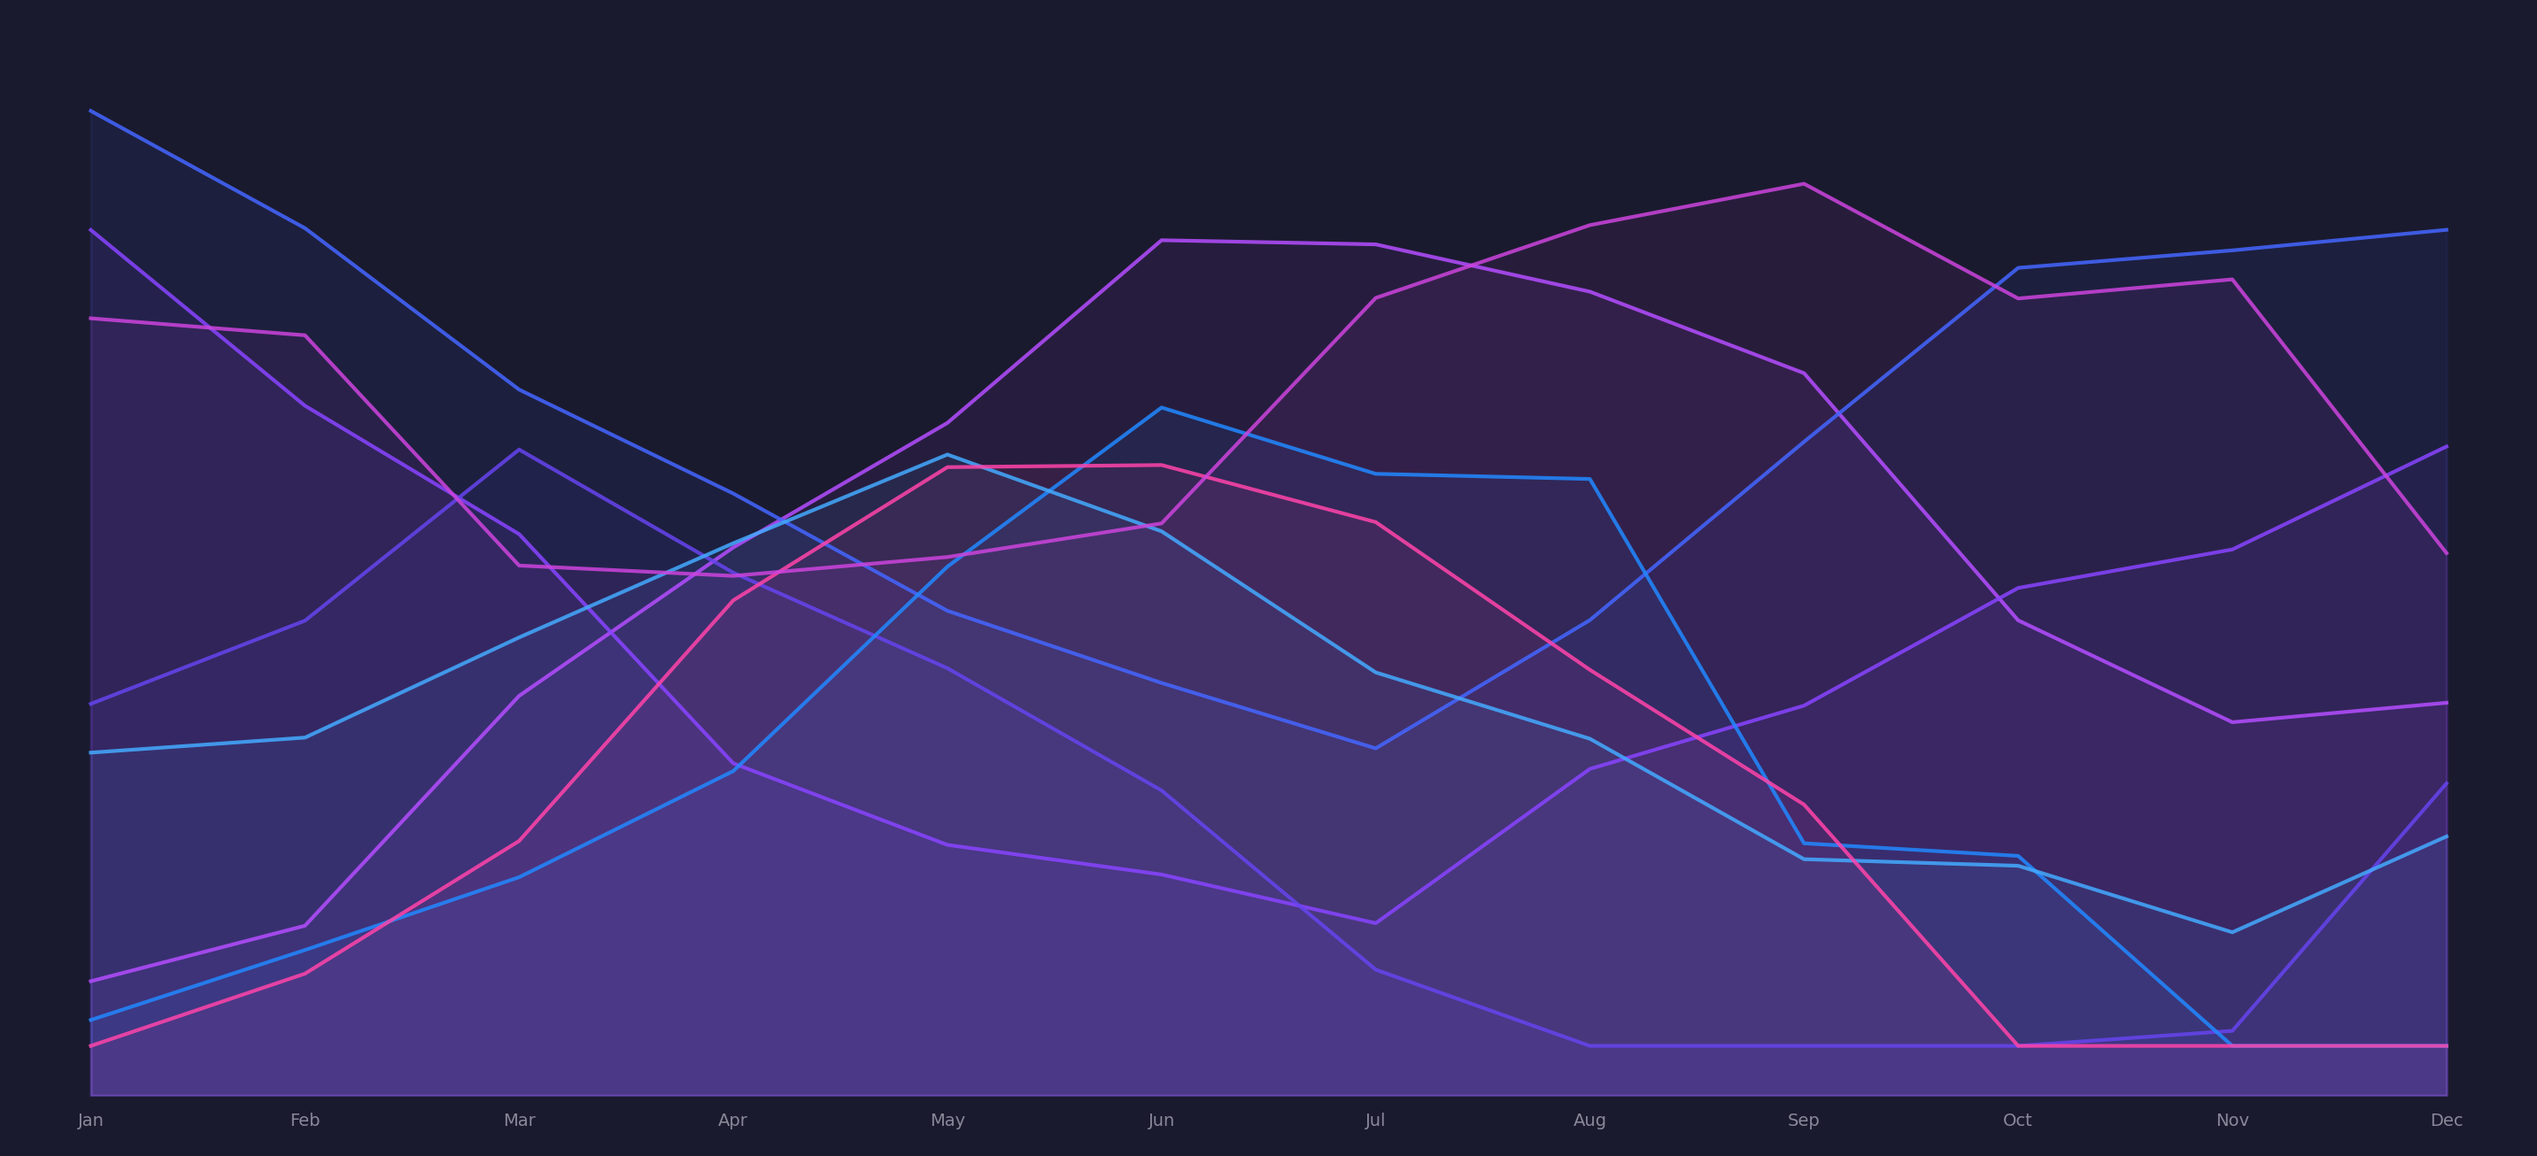
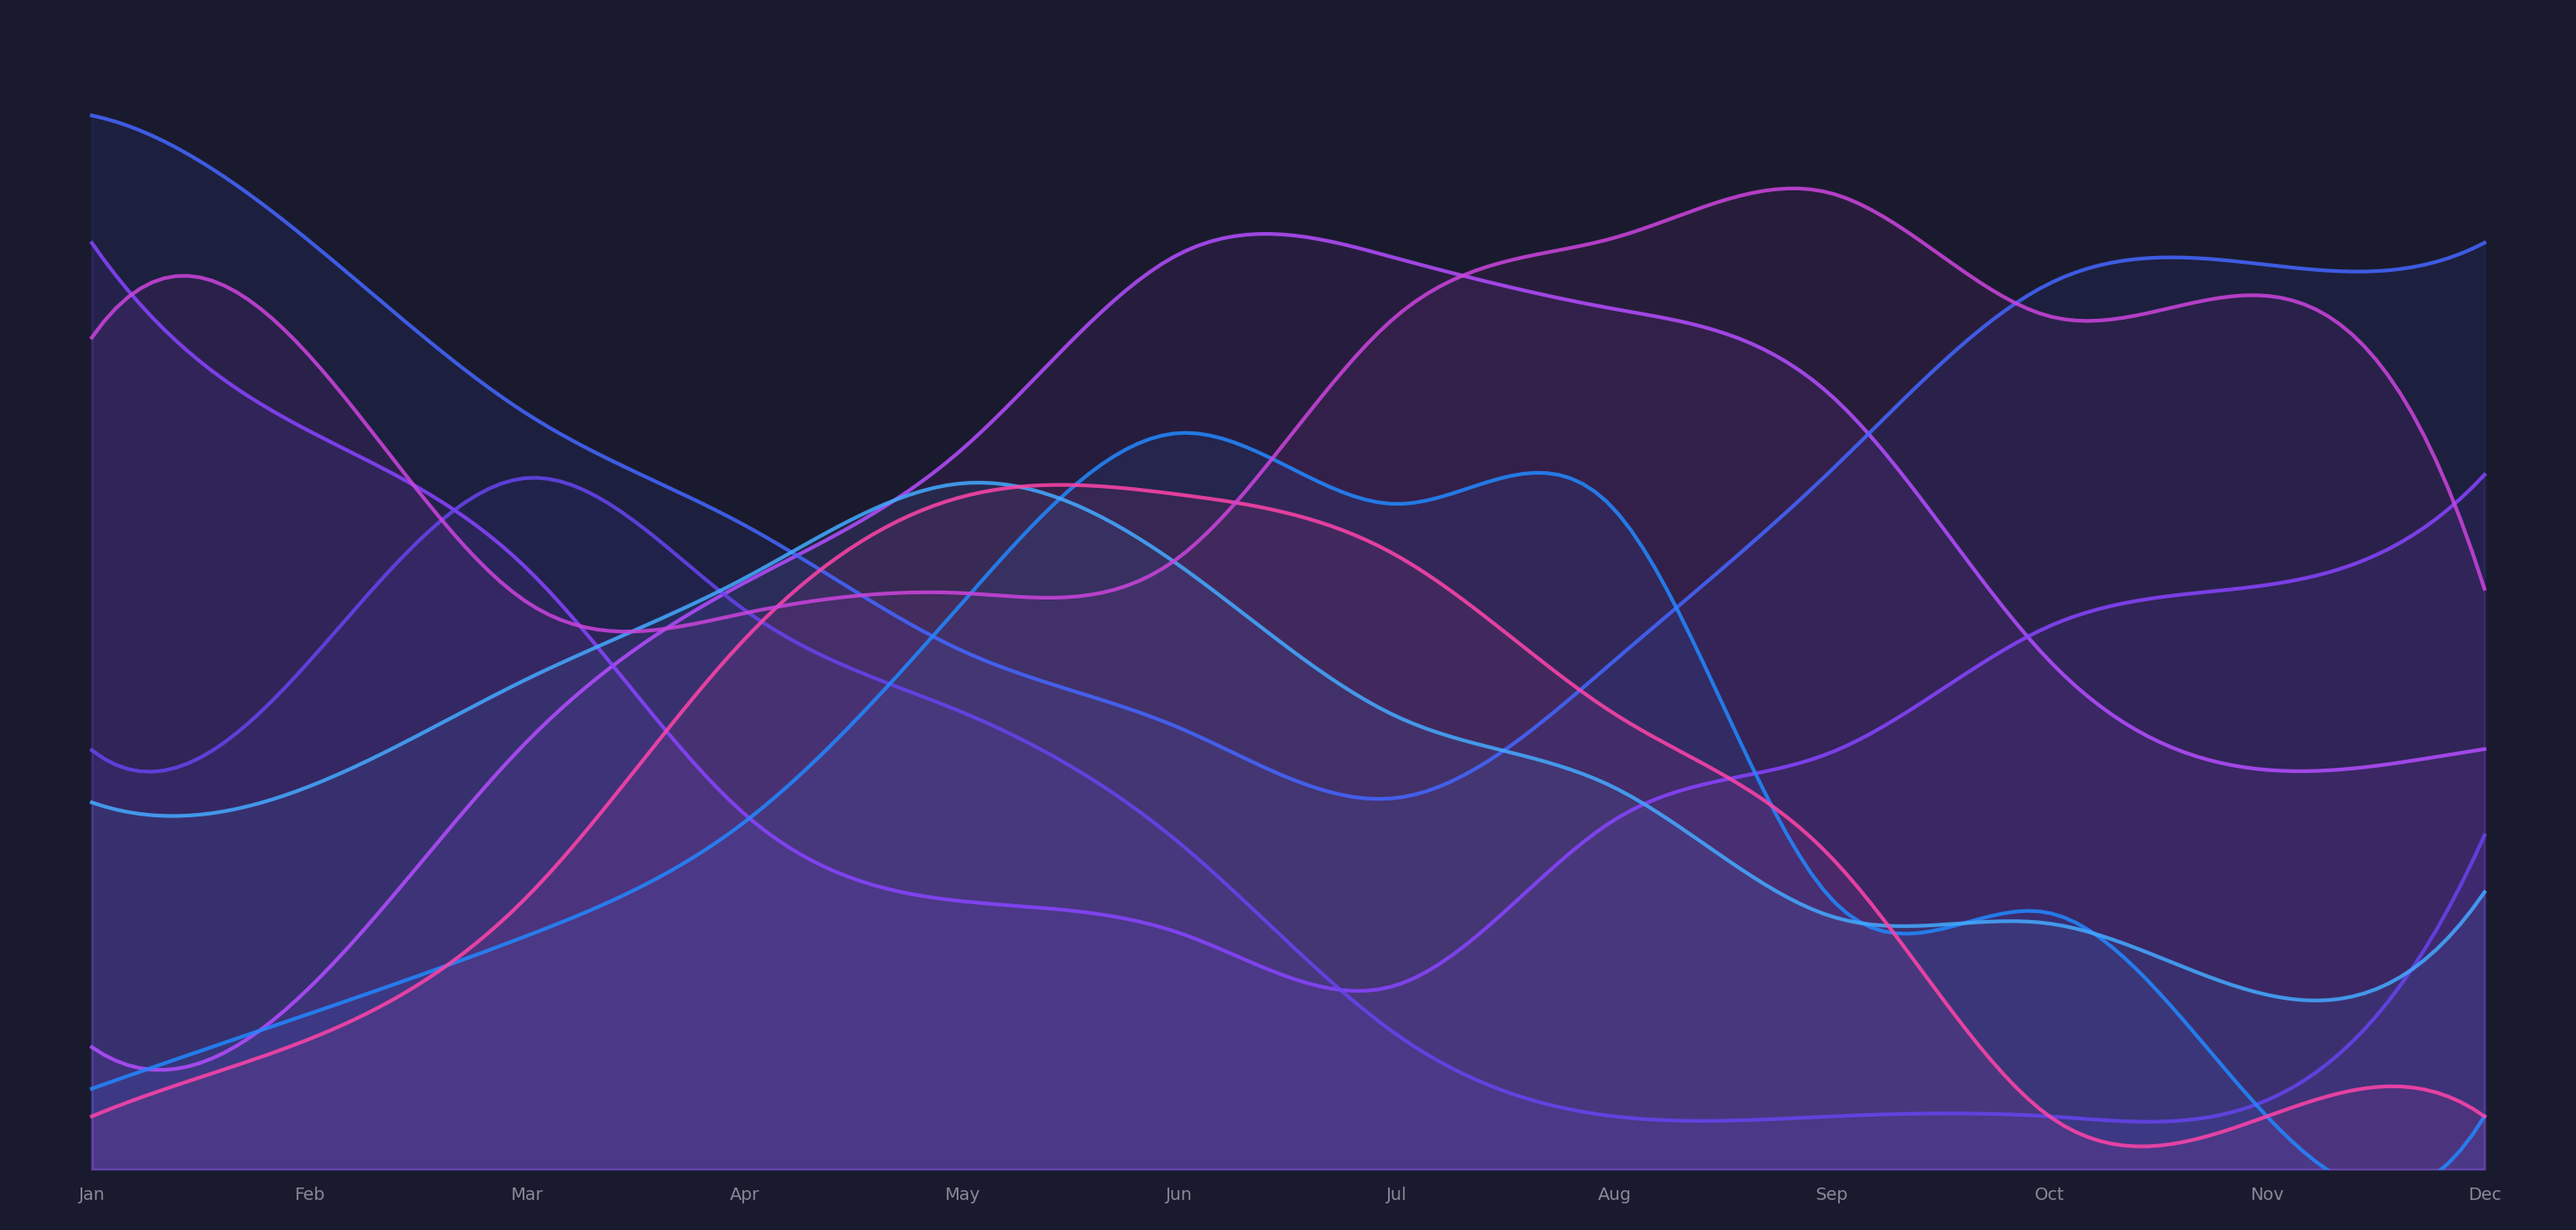
Swap to smooth Spotify charts, keep confetti counter on mouseleave
- Replace sharp-line charts with smooth spline versions
- Remove mouseleave stop on profile pics so confetti counter
  continues when cursor moves off image while holding

diff --git a/index.html b/index.html
@@ -6,7 +6,7 @@
         <link rel="stylesheet" href="assets/css/styles.css">
         <link rel="icon" type="image/x-icon" href="assets/img/favicon.ico">
         <link href='https://cdn.jsdelivr.net/npm/boxicons@2.0.5/css/boxicons.min.css' rel='stylesheet'> <!-- icons -->
-        <title>Jacob Heifetz-Licht — Analytics Manager | Data Analytics Leader</title>
+        <title>Jacob Heifetz-Licht</title>
         <meta name="description" content="Data analytics leader specializing in Python, SQL, Tableau, and automation. Saving 2,000+ hours and $50K+ annually through process optimization and award-winning dashboards.">
         <meta name="keywords" content="analytics manager, data analytics, Python, SQL, Tableau, automation, dashboard design, data visualization, ETL, BigQuery">
         <meta name="author" content="Jacob Heifetz-Licht">
@@ -1024,7 +1024,6 @@
                 el.addEventListener('mousedown', startAutoFire);
                 el.addEventListener('touchstart', startAutoFire, { passive: false });
                 window.addEventListener('mouseup', stopAutoFire);
-                el.addEventListener('mouseleave', stopAutoFire);
                 window.addEventListener('touchend', stopAutoFire);
                 window.addEventListener('touchcancel', stopAutoFire);
                 // Block click so it doesn't fire after mouseup
